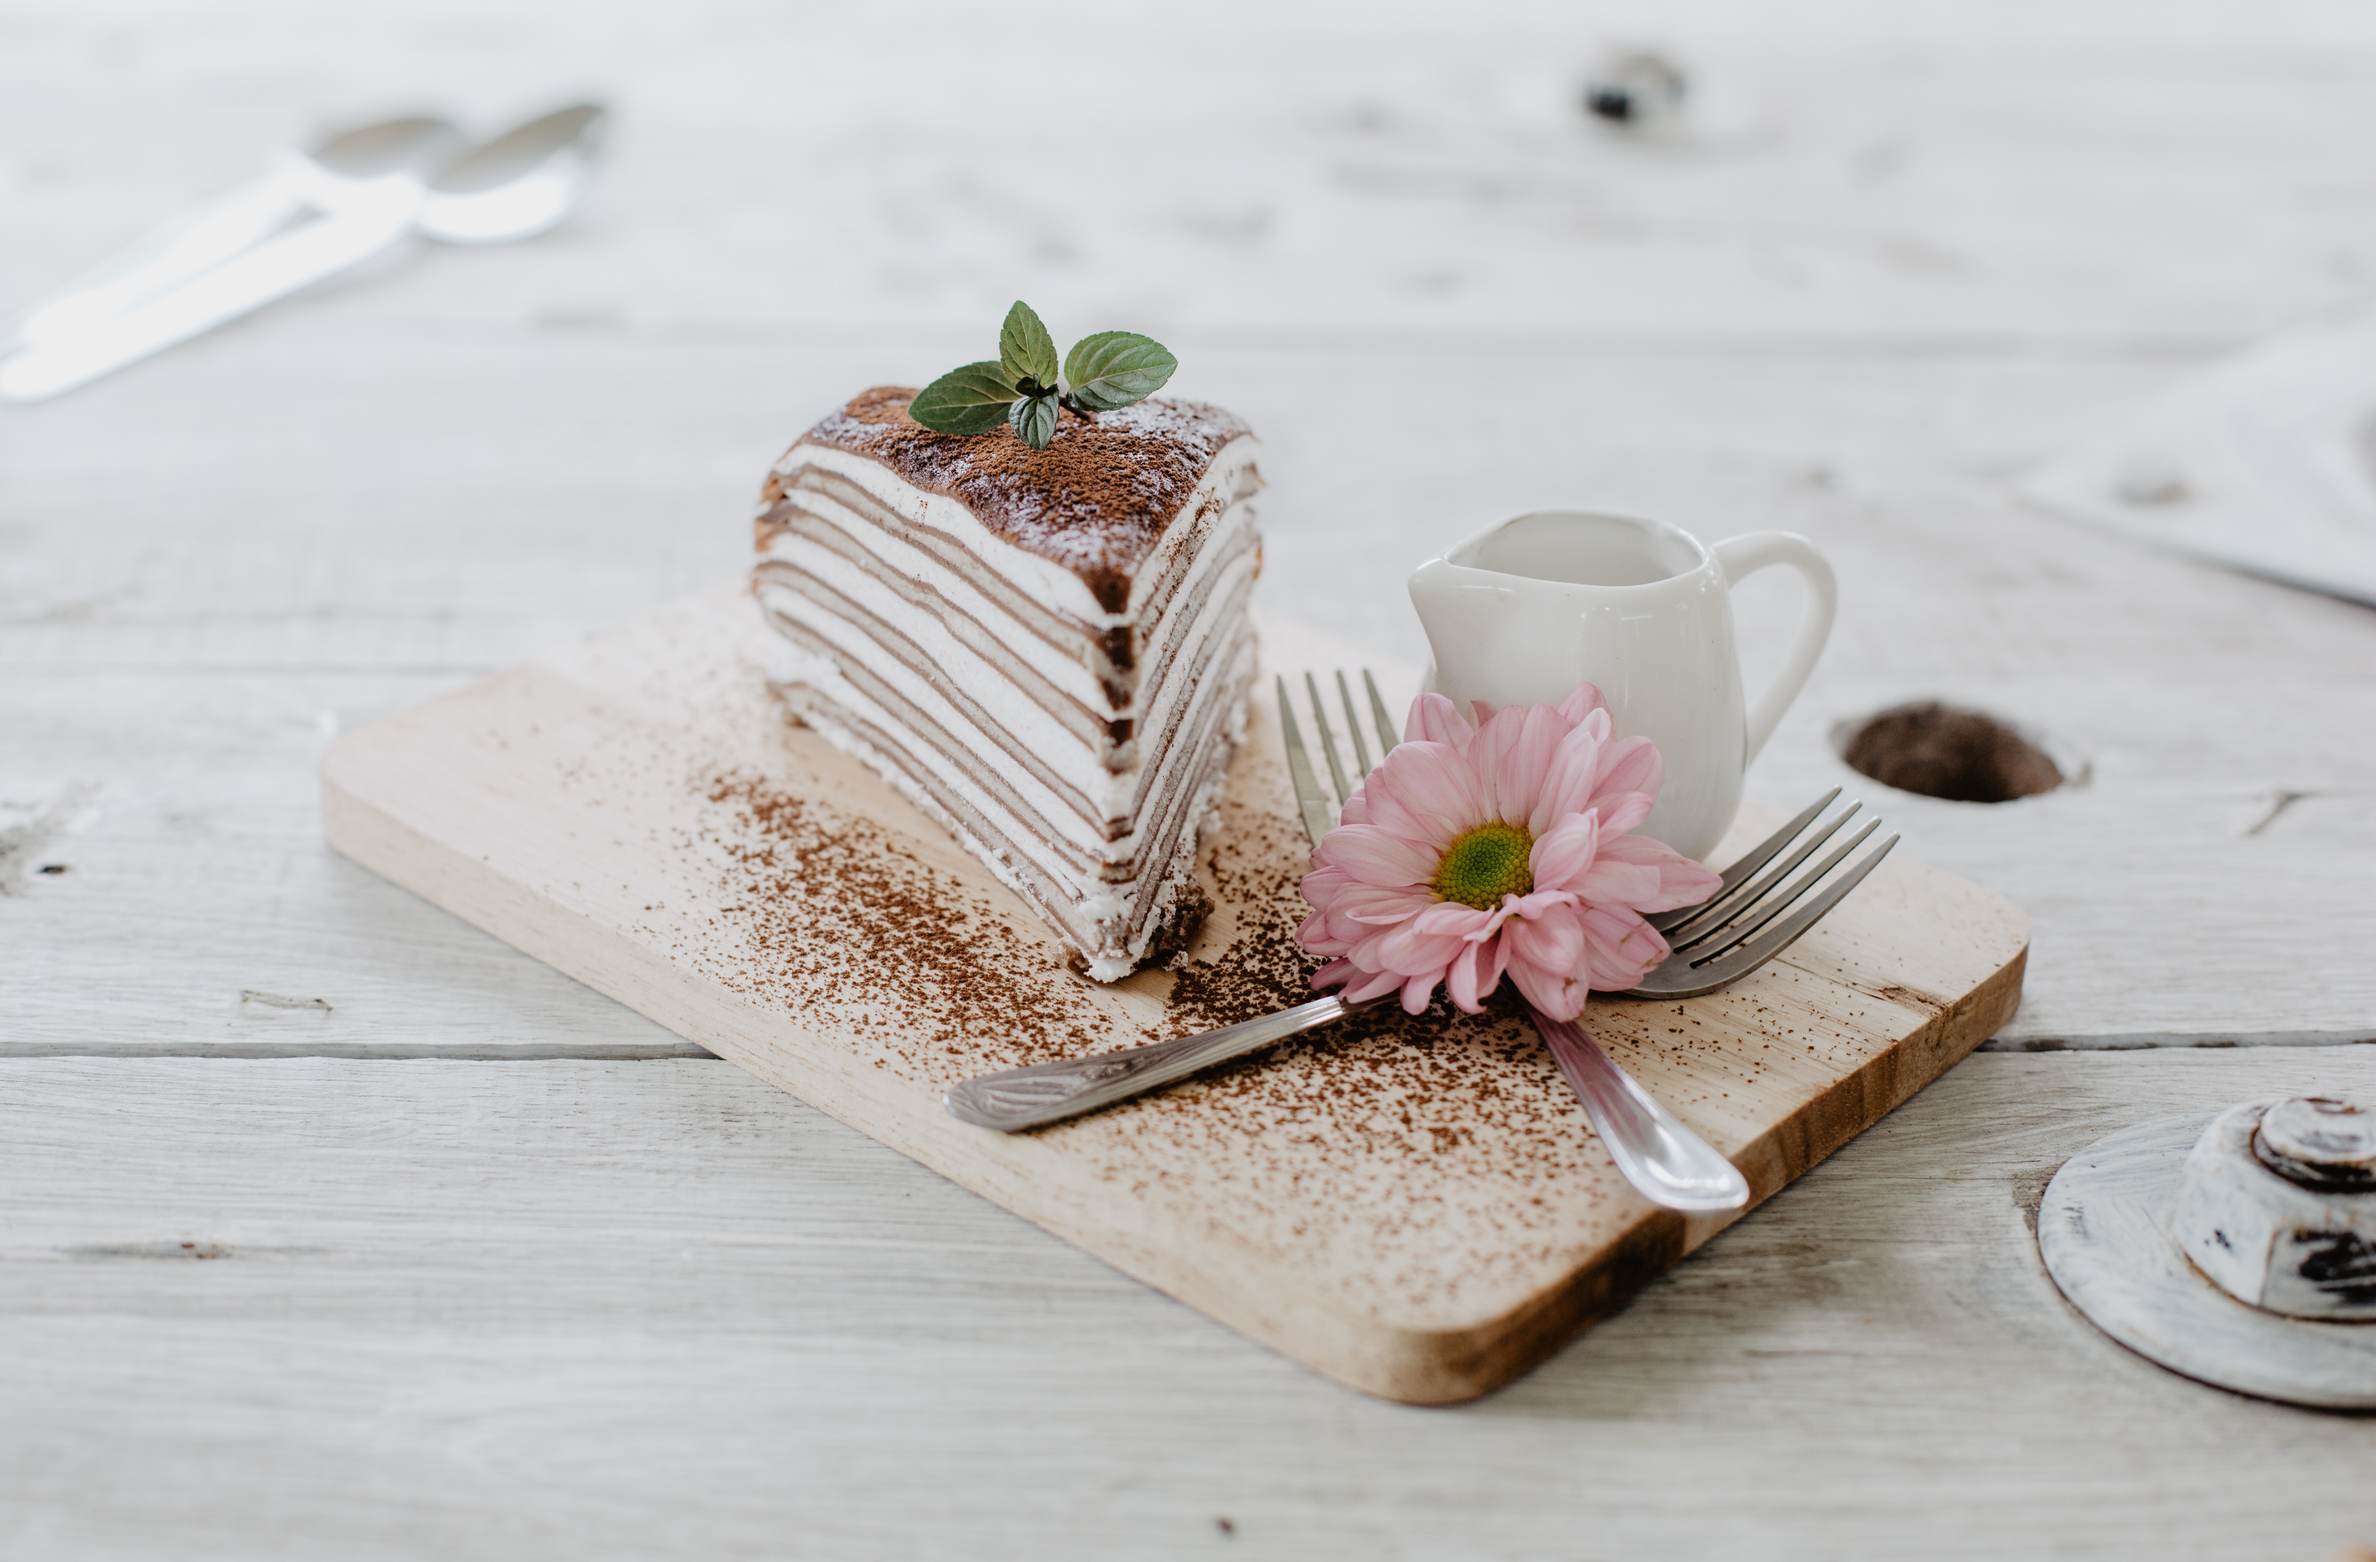
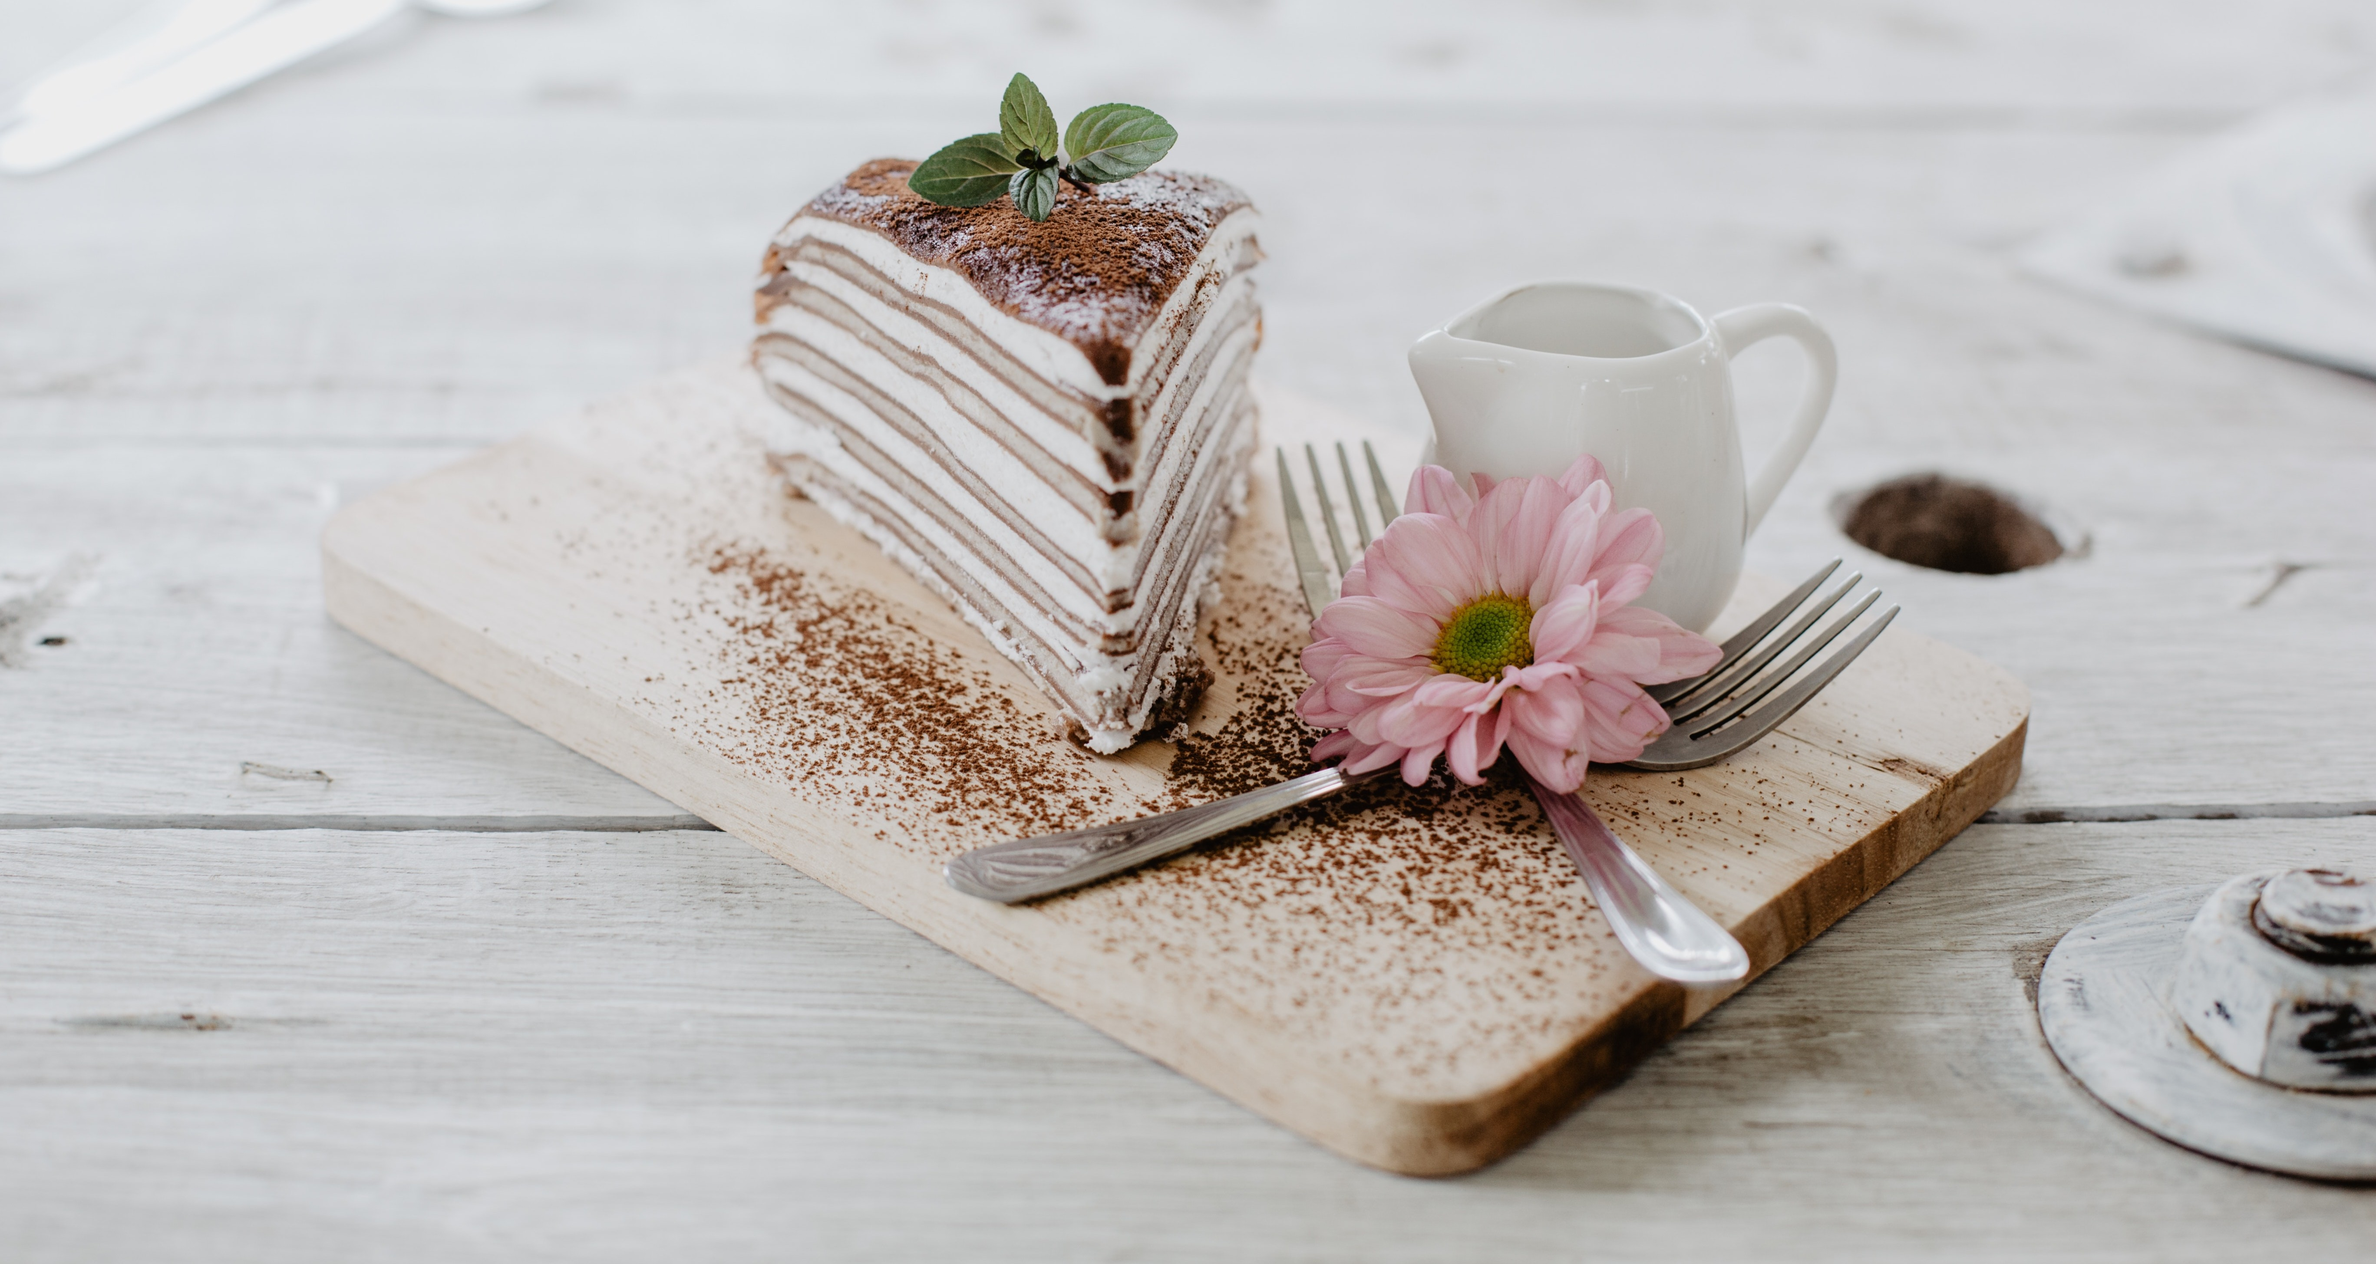
Added animation to hero image on index.html

diff --git a/index.html b/index.html
@@ -65,7 +65,7 @@
                 </div>
             </div>
             <div class="d-sm-none d-md-block col-md-8 hero-item hero-image-cover">
-                <img src="assets/images/hero-2.jpg" alt="delicious piece of cake and flower on wooden table" class="hero-image"
+                <img src="assets/images/hero.jpg" alt="delicious piece of cake and flower on wooden table" class="hero-image"
                 longdesc="delicious piece of cake and flower on wooden table. Photo by ROMAN ODINTSOV from Pexels" width="100%" height="100%">
             </div>
         </div>

diff --git a/assets/css/style.css b/assets/css/style.css
@@ -198,11 +198,24 @@ footer {
 
 .hero-image-cover {
     background-color: #9024504d;
+    overflow:hidden;
 }
 
 .hero-image-cover img {
    object-fit: cover;
-   opacity: 0.8;
+   opacity: 0.7;
+   animation-name:hero-image-zoom;
+   animation-duration:7s;
+   animation-fill-mode:forwards;
+}
+
+@keyframes hero-image-zoom {
+  from{
+    transform:scale(1);
+  }
+  to {
+    transform:scale(1.1);
+  }
 }
 
 #main-heading-box {
